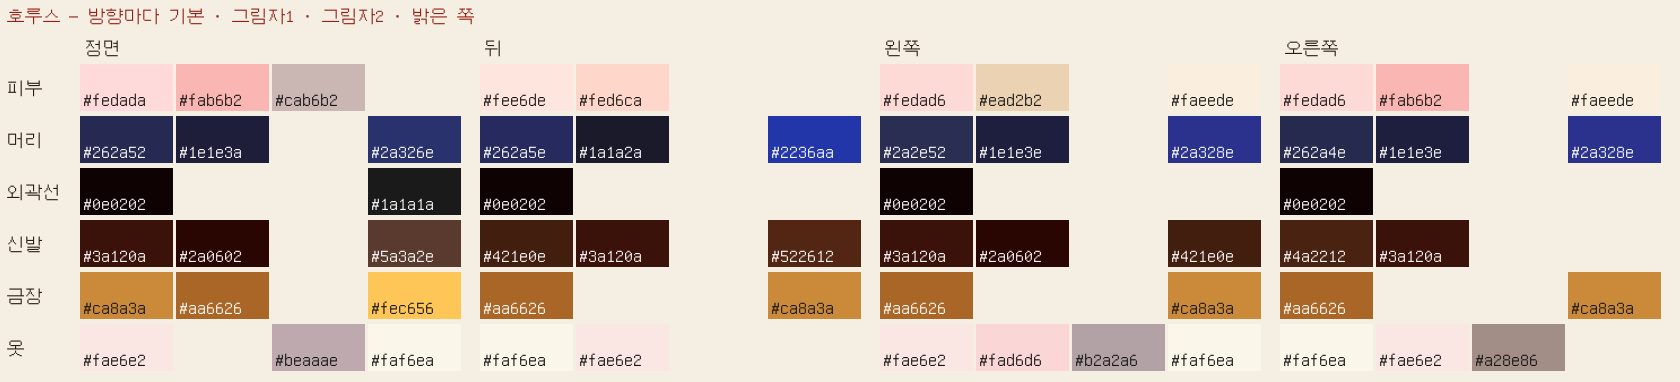
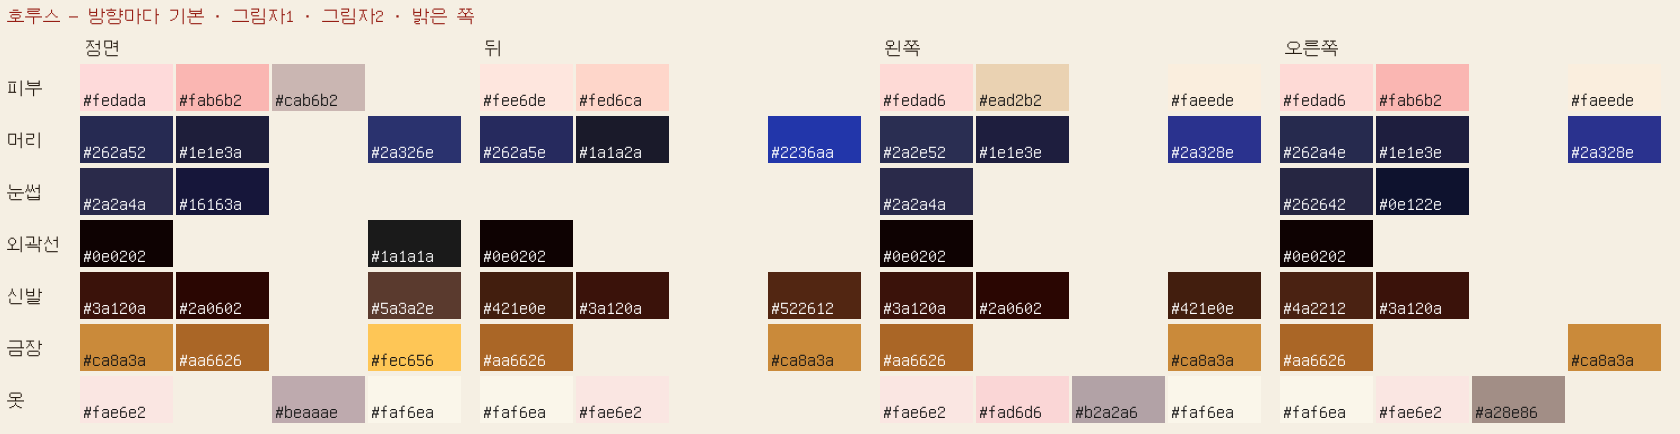
색 표에 눈썹 색(세트·호루스), 소망 눈썹은 머리 그림자1
Claude-Session: https://claude.ai/code/session_01VEprA6JeTcQVX6tKD4oAcT

diff --git a/tools/art/palette.py b/tools/art/palette.py
@@ -27,7 +27,7 @@ except OSError:
     FONT = ImageFont.load_default()
 WHO = {'set': '세트', 'horus': '호루스', 'somang': '소망'}
 VIEWS = ('front', 'back', 'left', 'right')
-PARTS = [('skin', '피부'), ('hair', '머리'), ('outline', '외곽선'), ('shoe', '신발'), ('gold', '금장'), ('cloth', '옷')]
+PARTS = [('skin', '피부'), ('hair', '머리'), ('brow', '눈썹'), ('outline', '외곽선'), ('shoe', '신발'), ('gold', '금장'), ('cloth', '옷')]
 STEPS = [('base', '기본'), ('shadow1', '그림자 1'), ('shadow2', '그림자 2'), ('light', '밝은 쪽')]
 
 
@@ -52,6 +52,38 @@ def masks(path, who):
     cloth &= ((s < 0.35) & (v < 0.4)) if who == 'set' else ((s < 0.2) & (v > 0.6))
     m = {'skin': skin, 'hair': p['hair'], 'outline': p['outline'], 'shoe': p['shoe'], 'gold': gold, 'cloth': cloth}
     return im, {k: x & solid for k, x in m.items()}
+
+
+# eyebrows: Horus's thick navy brows sit in these boxes of the final idle (x0, y0, x1, y1); Set's are found as the
+# first dark band inside the face; Somang's are hidden under her see-through bangs (see the table note)
+HORUS_BROWS = {'front': [(190, 288, 280, 313), (325, 288, 412, 313)], 'left': [(180, 288, 258, 310)], 'right': [(365, 288, 442, 310)]}
+
+
+def brows(who, v):
+    path = os.path.join(FINAL, who, 'idle', f'{who}-{v}.png')
+    if who == 'somang' or v == 'back' or not os.path.exists(path): return None
+    im = np.asarray(Image.open(path).convert('RGBA')).astype(np.float32)
+    P = cs.parts(im, who); solid = im[..., 3] >= 250
+    skin = P['skin'] & (np.arange(im.shape[0])[:, None] < P['top'] + 0.55 * P['H'])
+    M = np.zeros_like(skin)
+    if who == 'horus':
+        L = cs.lab(im[..., :3].reshape(-1, 3)).reshape(im.shape[:2] + (3,))[..., 0]
+        for x0, y0, x1, y1 in HORUS_BROWS[v]: M[y0:y1, x0:x1] = True
+        M &= solid & ~skin & (L < 50)
+    else:
+        ys, _ = np.nonzero(skin); y0, y1 = ys.min(), ys.max()
+        up = np.zeros_like(skin); dn = np.zeros_like(skin)
+        for d in range(1, 14): up |= np.roll(skin, d, 0); dn |= np.roll(skin, -d, 0)
+        E = solid & ~skin & up & dn; E[:y0] = False; E[y0 + int(0.6 * (y1 - y0)):] = False
+        rows = np.nonzero(E.sum(1) > 3)[0]
+        if not len(rows): return None
+        band = [rows[0]]
+        for r in rows[1:]:
+            if r - band[-1] > 2: break
+            band.append(r)
+        M[band[0]:band[-1] + 1] = E[band[0]:band[-1] + 1]
+    px = im[..., :3][M]
+    return px if len(px) >= 40 else None
 
 
 def steps(rgb):
@@ -100,14 +132,20 @@ def main():
         pix = {v: {k: [] for k, _ in PARTS} for v in VIEWS}
         for v, path in files(who):
             im, m = masks(path, who)
-            for k, _ in PARTS: pix[v][k].append(im[..., :3][m[k]])
+            for k, _ in PARTS:
+                if k != 'brow': pix[v][k].append(im[..., :3][m[k]])
+        for v in VIEWS:
+            b = brows(who, v)
+            pix[v]['brow'].append(b if b is not None else np.zeros((0, 3), np.float32))
         table[who] = {}
         for v in VIEWS:
             table[who][v] = {}
             for k, _ in PARTS:
                 px = np.concatenate(pix[v][k])
-                if len(px) < 150: continue
-                table[who][v][k] = {s: {'hex': hexc(c), 'rgb': [int(x) for x in c], 'share': round(float(f), 3)} for s, (c, f) in steps(px).items()}
+                if len(px) < (40 if k == 'brow' else 150): continue
+                st = steps(px)
+                if k == 'brow': st.pop('light', None)  # a brow's lighter pixels are its edge blending into the skin
+                table[who][v][k] = {s: {'hex': hexc(c), 'rgb': [int(x) for x in c], 'share': round(float(f), 3)} for s, (c, f) in st.items()}
     json.dump({'source': 'final idle 1 + walk 3 per character and direction', 'steps': dict(STEPS), 'parts': dict(PARTS),
                'colours': table}, open(os.path.join(OUT, 'palette.json'), 'w'), ensure_ascii=False, indent=1)
 
@@ -116,6 +154,7 @@ def main():
           '스포이트로 다시 뽑지 않는다. 누운 그림처럼 방향이 애매하면 정면 표. 표에 없는 단계가 필요하면 새로 만들지 말고 사용자에게 묻는다.', '',
           '- 기본 = 가장 많이 쓴 색(평평한 면). 그림자 1 = 기본보다 조금 어두운 색, 그림자 2 = 더 어두운 색(외곽선 제외), 밝은 쪽 = 하이라이트.',
           '- 괄호 안 % = 그 부위에서 그 색이 차지하는 비율. 작은 %는 작은 점·선에만 쓴다.',
+          '- **눈썹:** 세트·호루스는 표에 있다(정지에서 뽑음). **소망 눈썹은 시스루뱅에 가려 표에 없다:** 앞머리 사이로 비치는 가는 선으로, 소망 머리의 그림자 1색으로 그린다. 눈썹 색을 머리 기본색이나 검정으로 칠하지 않는다.',
           '- **눈은 표에 없다**(작은 칸에 색이 너무 많다). [eyes.png](eyes.png)의 정지 눈을 쓴다: 뜬 눈은 같은 방향 정지 눈 픽셀을 그대로 옮겨도 된다, 표정이 바뀐 눈은 그 그림에 있는 색만. 볼 홍조, 입, 리본도 그 방향 최종 정지에서 그대로.',
           '- 같은 캐릭터라도 방향마다 조금 다르게 칠해져 있다(채택본 그대로). 다른 방향 색을 섞지 않는다.', '']
     for who, ko in WHO.items():

diff --git a/docs/ASTRA-SPRITE.md b/docs/ASTRA-SPRITE.md
@@ -15,7 +15,7 @@
 | 열 것 | 경로 |
 |---|---|
 | 같은 캐릭터·같은 방향의 **최종 정지와 걷기** | `docs/art/chibi-refresh/final/<누구>/idle/`, `walk/` |
-| **색 표** (캐릭터·방향마다 피부·머리·외곽선·신발·금장·옷의 기본·그림자1·그림자2·밝은 쪽) | [palette.md](art/chibi-refresh/palette/palette.md) — 그리는 방향의 표 색만 쓴다. 스포이트로 다시 뽑지 않는다. 눈은 [eyes.png](art/chibi-refresh/palette/eyes.png) |
+| **색 표** (캐릭터·방향마다 피부·머리·눈썹·외곽선·신발·금장·옷의 기본·그림자1·그림자2·밝은 쪽) | [palette.md](art/chibi-refresh/palette/palette.md) — 그리는 방향의 표 색만 쓴다. 스포이트로 다시 뽑지 않는다. 눈은 [eyes.png](art/chibi-refresh/palette/eyes.png) |
 | **머리 기준** (세 명 4방향 정지 한 장) | [hair-reference.png](art/chibi-refresh/notes/hair-reference.png) + 아래 B "머리 기준" — 그리는 방향과 같은 방향을 본다 |
 | 이 동작의 **채택 기준 그림** | 상호작용 소망 172 · 줍기 소망 181 · 앉기 소망 179 · 잠들기 소망 180 (아래 D) |
 | 사용자가 준 **예시·수정도** | `docs/art/chibi-refresh/notes/` (잠들기 정면 [sleep-front-pose-sketch.jpg](art/chibi-refresh/notes/sleep-front-pose-sketch.jpg), 호루스 머리 [horus-hair-short.jpg](art/chibi-refresh/notes/horus-hair-short.jpg)) |
@@ -117,7 +117,7 @@ python3 tools/art/sprite-review.py docs/art/chibi-refresh/<동작 폴더> --out 
 - **같은 동작의 다른 캐릭터는 채택된 기준 그림의 구도를 따른다.** 시점, 기울기, 원근으로 줄어드는 정도, 머리 위치를 기준 그림과 같게 하고 팔다리 자세와 느낌만 캐릭터대로. 기준: 상호작용 소망 172, 줍기 소망 181, 앉기 소망 179, 잠들기 소망 180.
 
 **색**
-- **색은 [색 표](art/chibi-refresh/palette/palette.md)에서 그대로 쓴다.** 캐릭터·방향마다 피부·머리·외곽선·신발·금장·옷의 기본, 그림자 1·2, 밝은 쪽이 hex로 있다(최종 정지·걷기 픽셀에서 `tools/art/palette.py`가 뽑음). 매번 스포이트로 뽑지 않는다. 누운 그림처럼 방향이 애매하면 정면 표. **눈은 표에 없다**(작은 칸에 색이 너무 많다): [눈 견본](art/chibi-refresh/palette/eyes.png)을 쓴다. 뜬 눈은 같은 방향 정지 눈 픽셀을 그대로 옮기고, 표정이 바뀐 눈(반눈, 동그란 눈, ^^, 찡그림)은 그 견본에 있는 색으로만 다시 그린다. 감은 눈은 외곽선 색. 볼 홍조, 입, 리본도 그 방향 최종 정지에서. 표에 없는 단계를 새로 만들지 않는다. **피부색·피부톤은 같은 캐릭터·같은 방향의 최종 정지·걷기에서 스포이트로 뽑은 색만 쓴다.** 기본색, 그림자, 볼 홍조, 외곽선 색, 명암 단계 수와 위치가 모두 같아야 한다. 생성 결과의 피부색을 그대로 두지 않는다.
+- **색은 [색 표](art/chibi-refresh/palette/palette.md)에서 그대로 쓴다.** 캐릭터·방향마다 피부·머리·눈썹·외곽선·신발·금장·옷의 기본, 그림자 1·2, 밝은 쪽이 hex로 있다(최종 정지·걷기 픽셀에서 `tools/art/palette.py`가 뽑음). 매번 스포이트로 뽑지 않는다. 누운 그림처럼 방향이 애매하면 정면 표. **눈은 표에 없다**(작은 칸에 색이 너무 많다): [눈 견본](art/chibi-refresh/palette/eyes.png)을 쓴다. 뜬 눈은 같은 방향 정지 눈 픽셀을 그대로 옮기고, 표정이 바뀐 눈(반눈, 동그란 눈, ^^, 찡그림)은 그 견본에 있는 색으로만 다시 그린다. 감은 눈은 외곽선 색. **눈썹은 표의 눈썹 색**(세트 짙은 적갈, 호루스 남색). 소망 눈썹은 앞머리에 가려 표에 없으니 소망 머리 그림자 1색으로 가늘게. 눈썹을 검정이나 머리 기본색으로 칠하지 않는다. 볼 홍조, 입, 리본도 그 방향 최종 정지에서. 표에 없는 단계를 새로 만들지 않는다. **피부색·피부톤은 같은 캐릭터·같은 방향의 최종 정지·걷기에서 스포이트로 뽑은 색만 쓴다.** 기본색, 그림자, 볼 홍조, 외곽선 색, 명암 단계 수와 위치가 모두 같아야 한다. 생성 결과의 피부색을 그대로 두지 않는다.
 - **머리색도 같은 방향의 최종 정지·걷기에서 스포이트로 뽑은 색만 쓴다.** 어두운 쪽·중간·밝은 쪽 세 단계가 정지·걷기와 같아야 한다. 더 밝거나 분홍·형광으로 뜨면 실패(세트 잠들기 정면 193, 호루스 잠들기 정면 191). `sprite-review.py`가 "머리색"으로 잰다.
 - **머리통·얼굴 윤곽은 정지 그대로.** 정수리·뒤통수의 둥근 머리통 모양, 둥근 볼, 좁아지는 턱선, 이목구비 간격을 지킨다. 눕거나 눈을 감아도 머리통이 찌그러지거나 얼굴이 네모나게 각지거나 넓어지지 않는다. 정지보다 못생겨 보이면 실패. 정지 머리 윤곽을 겹쳐 확인한다(`head-check.py --guide`).
 

diff --git a/docs/art/chibi-refresh/palette/palette.md b/docs/art/chibi-refresh/palette/palette.md
@@ -4,6 +4,7 @@
 
 - 기본 = 가장 많이 쓴 색(평평한 면). 그림자 1 = 기본보다 조금 어두운 색, 그림자 2 = 더 어두운 색(외곽선 제외), 밝은 쪽 = 하이라이트.
 - 괄호 안 % = 그 부위에서 그 색이 차지하는 비율. 작은 %는 작은 점·선에만 쓴다.
+- **눈썹:** 세트·호루스는 표에 있다(정지에서 뽑음). **소망 눈썹은 시스루뱅에 가려 표에 없다:** 앞머리 사이로 비치는 가는 선으로, 소망 머리의 그림자 1색으로 그린다. 눈썹 색을 머리 기본색이나 검정으로 칠하지 않는다.
 - **눈은 표에 없다**(작은 칸에 색이 너무 많다). [eyes.png](eyes.png)의 정지 눈을 쓴다: 뜬 눈은 같은 방향 정지 눈 픽셀을 그대로 옮겨도 된다, 표정이 바뀐 눈은 그 그림에 있는 색만. 볼 홍조, 입, 리본도 그 방향 최종 정지에서 그대로.
 - 같은 캐릭터라도 방향마다 조금 다르게 칠해져 있다(채택본 그대로). 다른 방향 색을 섞지 않는다.
 
@@ -17,6 +18,7 @@
 |---|---|---|---|---|
 | 피부 | `#facab6` (64%) | `#faaa92` (9%) | `#ce9e92` (3%) | — |
 | 머리 | `#8e263a` (40%) | `#6a1e2e` (19%) | — | `#be3a4a` (2%) |
+| 눈썹 | `#722636` (28%) | `#5e162e` (16%) | — | — |
 | 외곽선 | `#220a0a` (24%) | `#020202` (17%) | — | `#1e1a1a` (7%) |
 | 신발 | `#56261a` (26%) | `#421a12` (24%) | — | `#6a2e22` (10%) |
 | 금장 | `#c28642` (26%) | — | — | `#d29a4e` (22%) |
@@ -37,6 +39,7 @@
 |---|---|---|---|---|
 | 피부 | `#feceba` (44%) | `#fab69e` (13%) | `#ce9a92` (4%) | — |
 | 머리 | `#8a263a` (31%) | `#6a1e2e` (21%) | `#461622` (20%) | `#ba3646` (2%) |
+| 눈썹 | `#7a2632` (25%) | `#5a162a` (17%) | — | — |
 | 외곽선 | `#020202` (25%) | — | — | `#161212` (14%) |
 | 신발 | `#4e1e16` (27%) | `#3a120e` (14%) | — | `#5e2a1e` (15%) |
 | 금장 | `#eab666` (23%) | `#dea262` (13%) | `#c28a46` (22%) | `#f6c672` (17%) |
@@ -48,6 +51,7 @@
 |---|---|---|---|---|
 | 피부 | `#facab6` (38%) | `#fabaa2` (12%) | — | `#fadac6` (8%) |
 | 머리 | `#8a263a` (28%) | `#6e1e2e` (21%) | `#4a1622` (20%) | `#ba3646` (2%) |
+| 눈썹 | `#762e3a` (25%) | `#621e2a` (19%) | — | — |
 | 외곽선 | `#1e0606` (22%) | — | — | — |
 | 신발 | `#52221a` (25%) | `#36120e` (24%) | — | `#623226` (5%) |
 | 금장 | `#c28242` (26%) | `#b27232` (11%) | `#7a5a36` (3%) | `#e6ae5e` (21%) |
@@ -63,6 +67,7 @@
 |---|---|---|---|---|
 | 피부 | `#fedada` (34%) | `#fab6b2` (4%) | `#cab6b2` (2%) | — |
 | 머리 | `#262a52` (28%) | `#1e1e3a` (16%) | — | `#2a326e` (12%) |
+| 눈썹 | `#2a2a4a` (34%) | `#16163a` (23%) | — | — |
 | 외곽선 | `#0e0202` (34%) | — | — | `#1a1a1a` (32%) |
 | 신발 | `#3a120a` (23%) | `#2a0602` (14%) | — | `#5a3a2e` (22%) |
 | 금장 | `#ca8a3a` (29%) | `#aa6626` (28%) | — | `#fec656` (17%) |
@@ -85,6 +90,7 @@
 |---|---|---|---|---|
 | 피부 | `#fedad6` (40%) | `#ead2b2` (3%) | — | `#faeede` (14%) |
 | 머리 | `#2a2e52` (29%) | `#1e1e3e` (11%) | — | `#2a328e` (7%) |
+| 눈썹 | `#2a2a4a` (30%) | — | — | — |
 | 외곽선 | `#0e0202` (44%) | — | — | — |
 | 신발 | `#3a120a` (22%) | `#2a0602` (19%) | — | `#421e0e` (21%) |
 | 금장 | `#aa6626` (32%) | — | — | `#ca8a3a` (27%) |
@@ -96,6 +102,7 @@
 |---|---|---|---|---|
 | 피부 | `#fedad6` (39%) | `#fab6b2` (3%) | — | `#faeede` (15%) |
 | 머리 | `#262a4e` (35%) | `#1e1e3e` (11%) | — | `#2a328e` (6%) |
+| 눈썹 | `#262642` (39%) | `#0e122e` (16%) | — | — |
 | 외곽선 | `#0e0202` (37%) | — | — | — |
 | 신발 | `#4a2212` (27%) | `#3a120a` (24%) | — | — |
 | 금장 | `#aa6626` (38%) | — | — | `#ca8a3a` (25%) |
